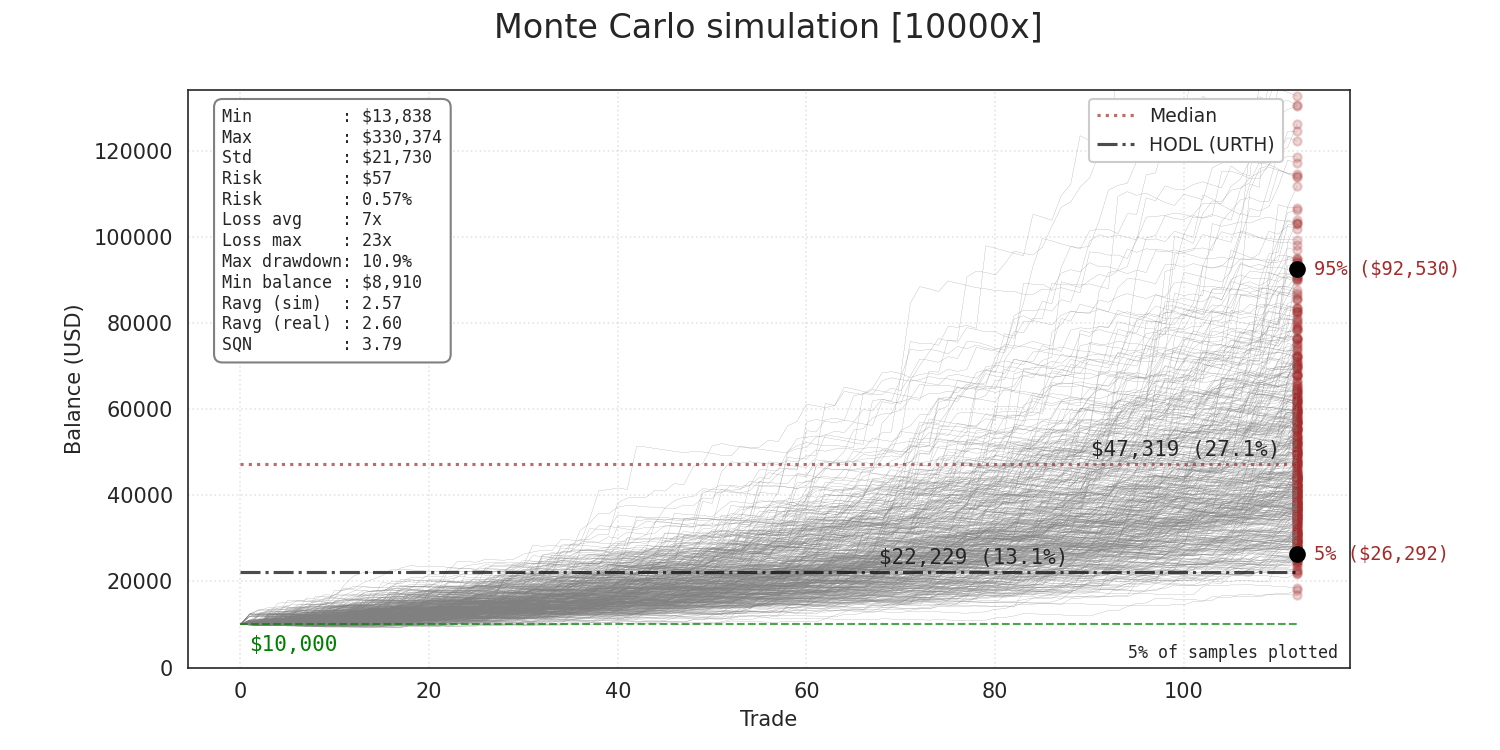
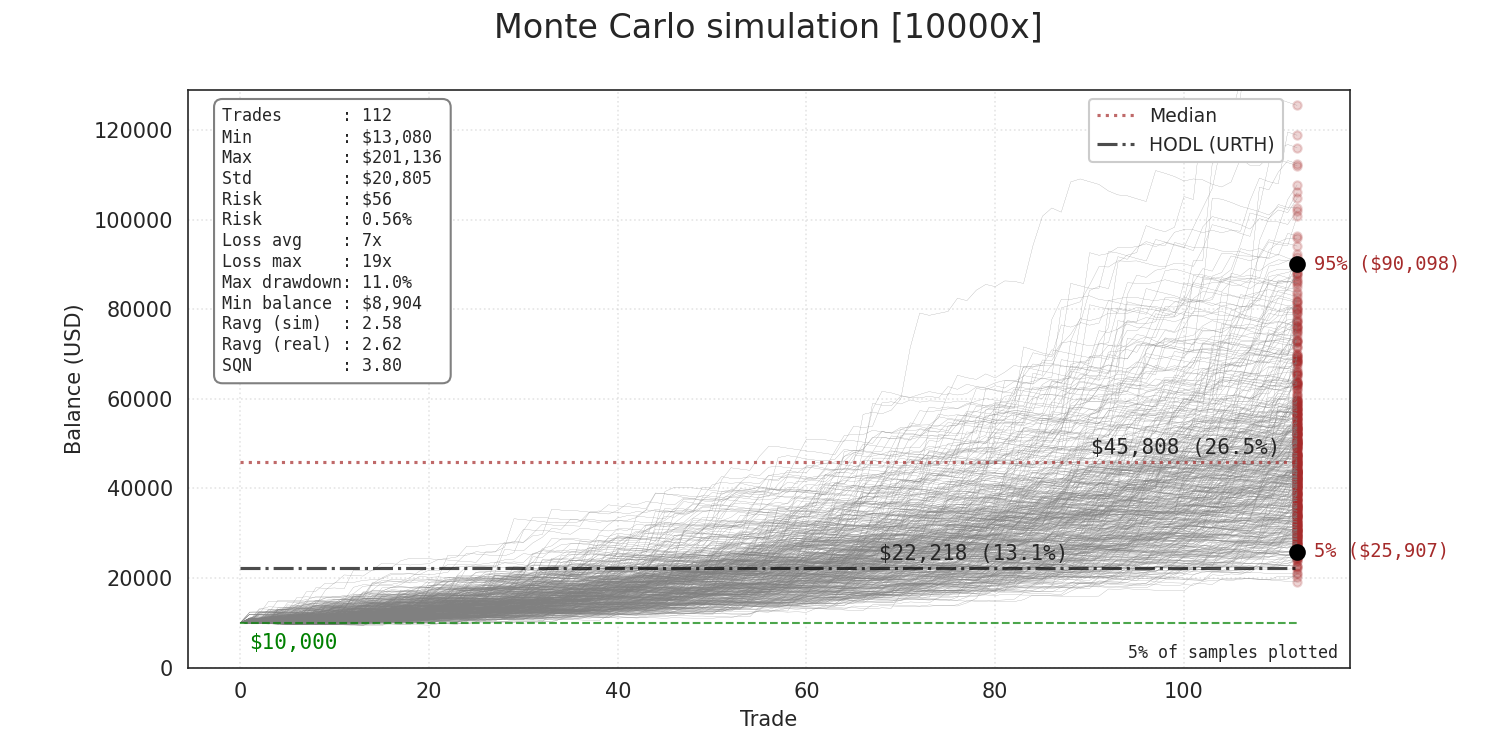
added fee debug and total trades info in MC plot

diff --git a/utils.py b/utils.py
@@ -803,7 +803,9 @@ def do_balance_simulation(dframe, df_trades_table, conf, last_close_date, ctx, s
         if row.Exit != '-':
             units = active_trades[row.Ticker]
             tot_profit = units * round(row.Profit, 2)
-            cap_invested = -(units * row.Exit - (units * row.Exit) * float(conf['trading_fee'])/100)
+            exit_fee = (units * row.Exit) * float(conf['trading_fee']) / 100
+            cap_invested = -(units * row.Exit - exit_fee)
+            logger.debug(f"Trading fee (exit ): {exit_fee:.2f} ({row.Ticker})")
             active_trades[row.Ticker] = 0
             gain_lst.append(round(tot_profit, 2))
             units_lst.append('-')
@@ -842,7 +844,7 @@ def do_balance_simulation(dframe, df_trades_table, conf, last_close_date, ctx, s
             closed_ret = float(tmp_df['LastClose'].iloc[0]) * float(value)
             balance += closed_ret
             closed_open_trades += 1
-            logger.debug("Closed: {} {:,.2f}".format(key, closed_ret))
+            logger.debug("Closed: {} ({:,.2f})".format(key, closed_ret))
             tmp_row = {
                 'Date': last_close_date.strftime('%Y-%m-%d'),
                 'Ticker': f"({key})",
@@ -903,8 +905,8 @@ def do_monte_carlo_simulation_sampled(total_trades_list, conf, ctx, stats):
     # extract Rmul values from the trades list
     Rmul_arr = total_trades_list['Rmul'].dropna().to_numpy()
 
-    # set fixed variables for simulation
-    risk = stats.avg_risk / conf['balance'] if len(Rmul_arr) <= conf['sim_len_max'] else (stats.avg_risk/stats.trades_num) * conf['sim_len_max'] / conf['balance']
+    # set the average risk 
+    risk = stats.avg_risk / conf['balance']
 
     # precompute the buy-and-hold benchmark for the plot, if enabled
     benchmark = None
@@ -930,10 +932,10 @@ def run_monte_carlo_sampled(Rmul_arr, conf, ctx, stats, risk, output_filename="m
 
     # sample from the real distribution as measured by the closed trades
     multiset = Rmul_arr.tolist()
-    sample_count = 10000
+    sample_count = conf['iterations']
     Rmul_sample = np.random.choice(multiset, size=sample_count, replace=True)
 
-    logger.info(f"Sampled Rmul average   : {np.mean(Rmul_sample):.2f} (10000 samples)")
+    logger.info(f"Sampled Rmul average   : {np.mean(Rmul_sample):.2f} ({conf['iterations']} samples)")
     logger.info(f"Risk per trade ($)     : {risk*conf['balance']:.2f}")
     logger.info(f"Risk per trade (%)     : {risk*100:.2f}")
 
@@ -951,7 +953,7 @@ def run_monte_carlo_sampled(Rmul_arr, conf, ctx, stats, risk, output_filename="m
     # Monte Carlo balance simulation
     for it in range(0, N):
 
-        # draw samples from the original distribution
+        # draw series of samples from the original distribution (of size M)
         Rmul_sampled = np.random.choice(multiset, size=M, replace=True)
 
         # store longest neg streak
@@ -1050,6 +1052,7 @@ def plot_monte_carlo_results_sampled(mc_result_df, conf, ctx, stats, risk, Rmul_
 
     # plot min-max values as text box
     sim_str = (
+        f"Trades      : {x_last}\n"
         f"Min         : ${mc_result_df.iloc[-1].min():,.0f}\n"
         f"Max         : ${mc_result_df.iloc[-1].max():,.0f}\n"
         f"Std         : ${mc_result_df.iloc[-1].std():,.0f}\n"
@@ -1243,6 +1246,7 @@ def _get_capital_invested(row, conf, balance, stats):
     # apply fee (fee is a percentage of the gross transaction)
     fee = units * row.Enter * float(conf["trading_fee"]) / 100
     cap_invested = units * row.Enter - fee
+    logger.debug(f"Trading fee (enter): {fee:.2f} ({row.Ticker})")
 
     # do not enter trades where the invested amount is too low, and scale down if the investement requires > current balance
     if cap_invested < conf['min_invest']:
@@ -1254,6 +1258,7 @@ def _get_capital_invested(row, conf, balance, stats):
         units = balance / row.Enter
         fee = units * row.Enter * float(conf["trading_fee"]) / 100
         cap_invested = units * row.Enter - fee
+        logger.debug(f"Trading fee (scaled down): {fee:.2f} ({row.Ticker})")
         if units <= 0:
             units = 0
             cap_invested = 0